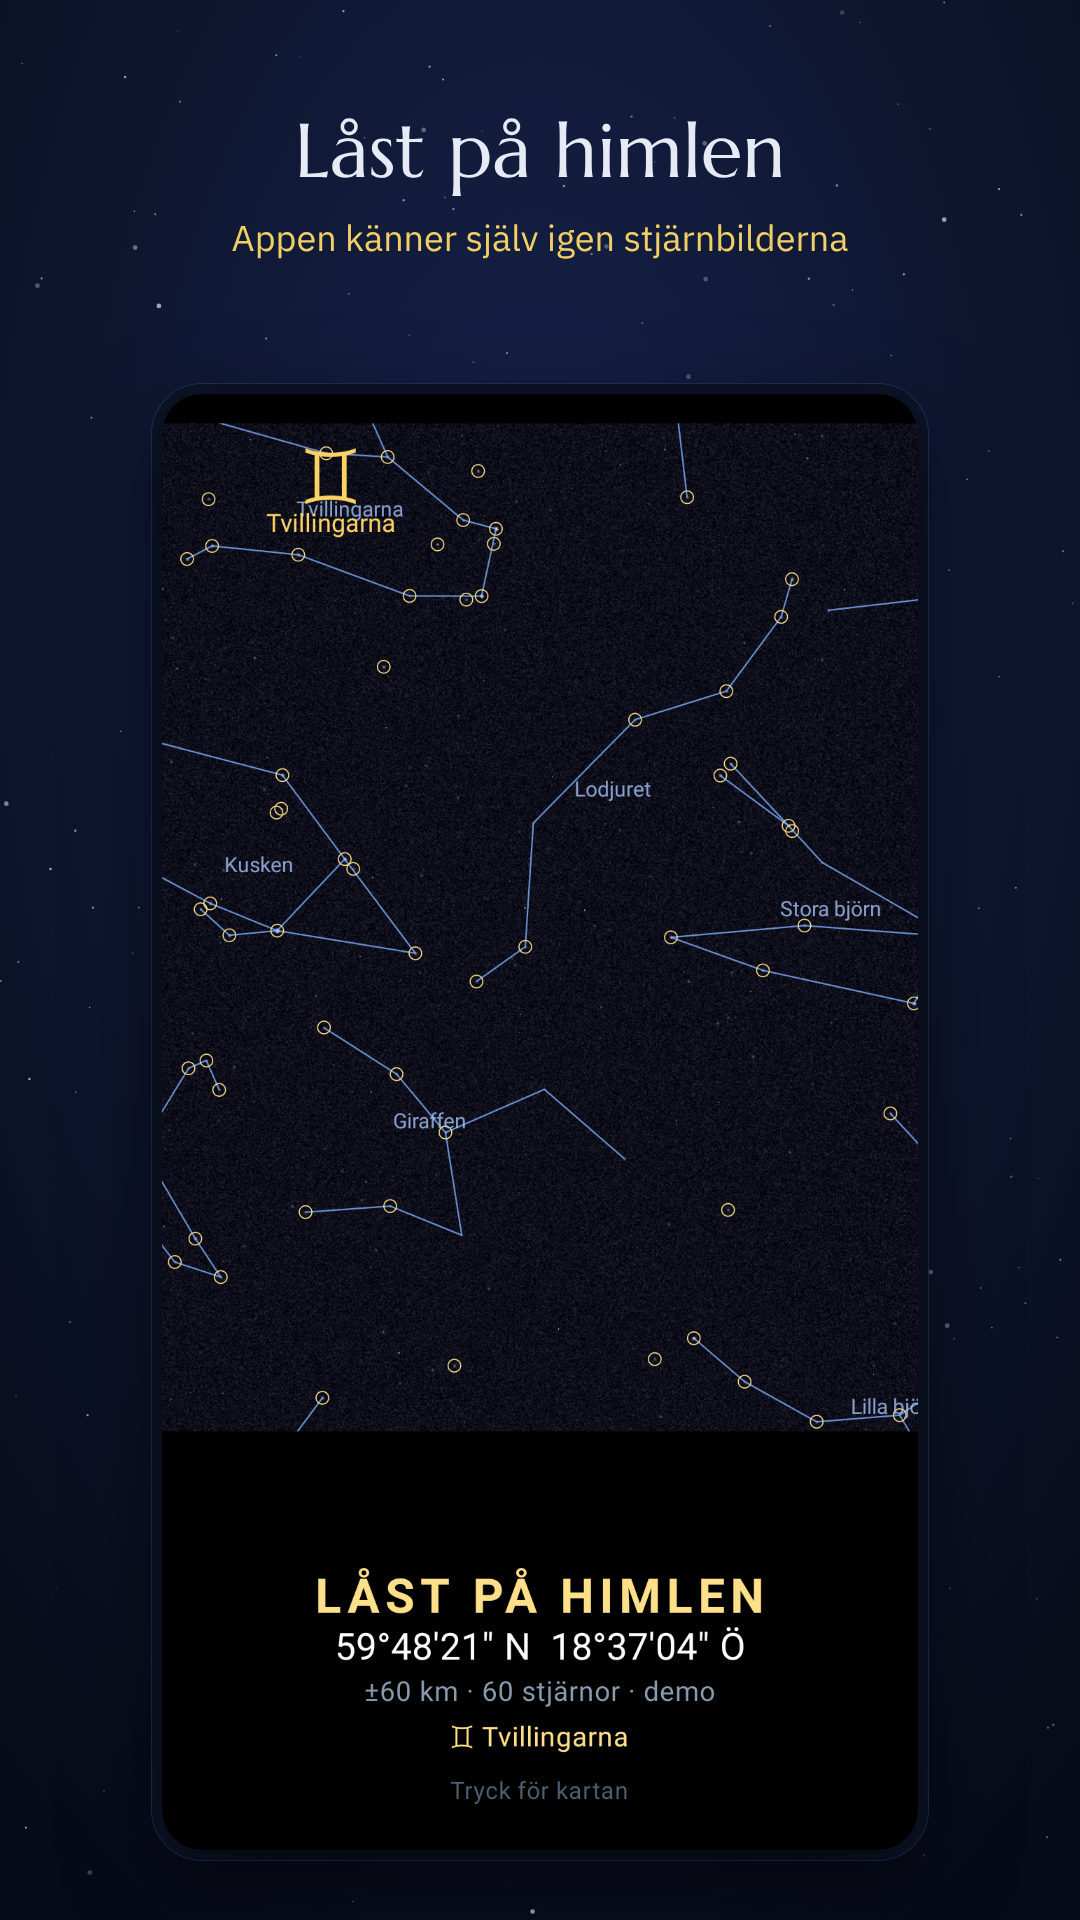
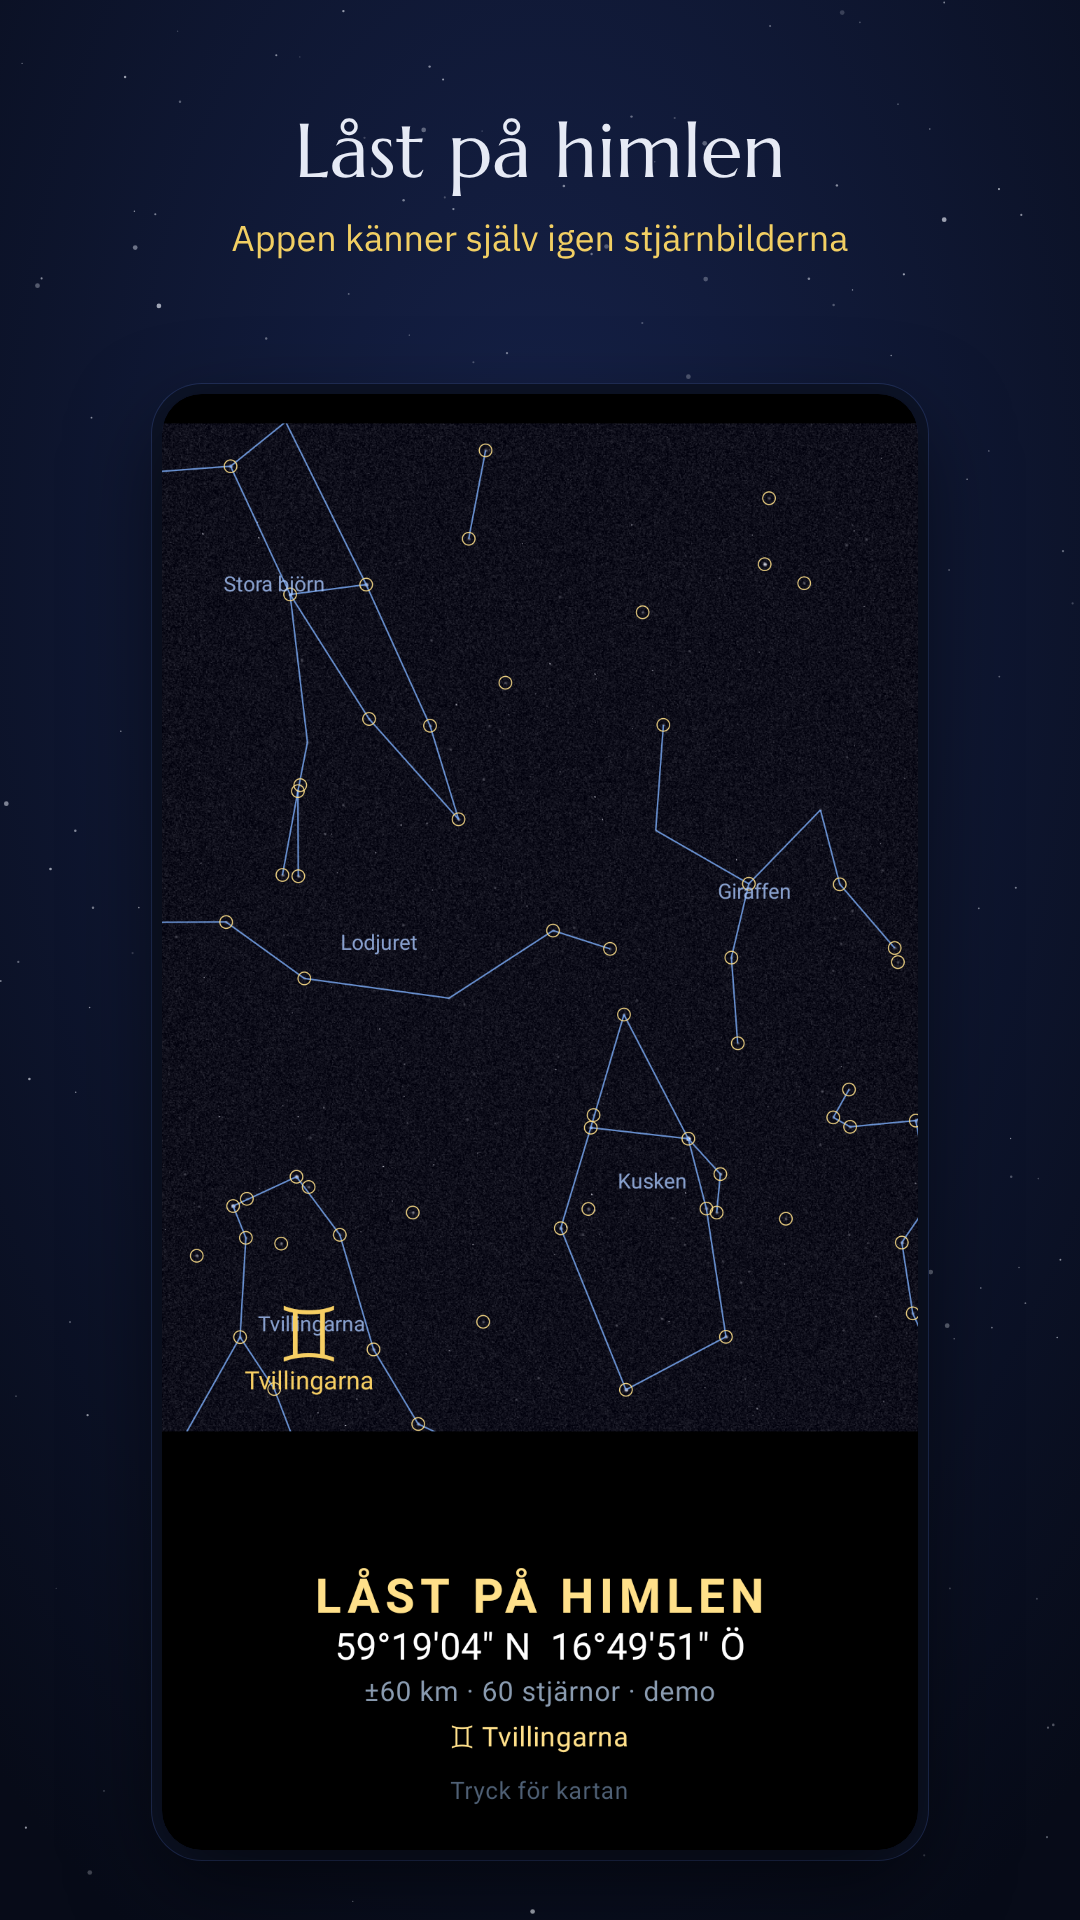
1.1.0 screenshots: Play sets (8 EN, 8 SV) and native app images on the site
Claude-Session: https://claude.ai/code/session_01G7NetsW8sqx8ohpW67qzxH

diff --git a/index.html b/index.html
@@ -7,7 +7,7 @@
 <meta name="description" content="Starways is an offline Android app that finds your position from the stars. No GPS, no signal, no internet permission.">
 <meta property="og:title" content="Starways">
 <meta property="og:description" content="Offline star navigation for Android. When all other navigation fails.">
-<meta property="og:image" content="img/lock-on-sky-540.jpg">
+<meta property="og:image" content="img/app-lock-on-540.jpg">
 <meta name="theme-color" content="#070b18">
 <link rel="icon" href="icon.svg" type="image/svg+xml">
 <link rel="stylesheet" href="fonts.css">
@@ -157,9 +157,9 @@ footer{padding-block:36px;color:var(--muted);font-size:14px}
           <a class="btn ghost" href="https://play.google.com/store/apps/details?id=se.lte.starways" target="_blank" rel="noopener">Google Play</a>
           <a class="btn ghost" href="https://claude.ai/artifact/BktgjLXFUgqfmtFtrirfJZ" target="_blank" rel="noopener"><span lang="en">Try the web demo</span><span lang="sv">Prova webbdemon</span></a>
         </div>
-        <p class="coord"><span lang="en">Demo fix:</span><span lang="sv">Demofix:</span> <b>59.332° N, 18.074° E</b> · ±4.1 km · 47 <span lang="en">stars</span><span lang="sv">stjärnor</span></p>
+        <p class="coord"><span lang="en">Demo fix:</span><span lang="sv">Demofix:</span> <b>59.306° N, 18.113° E</b> · ±7.5 km <span lang="en">after calibration</span><span lang="sv">efter kalibrering</span></p>
       </div>
-      <div class="phone"><img src="img/lock-on-sky-540.jpg" width="540" height="1099" alt="Starways locked on the sky: Ursa Major, Draco, Boötes, Ursa Minor and Corona Borealis identified, 51 stars."></div>
+      <div class="phone"><img src="img/app-lock-on-540.jpg" width="540" height="1040" alt="Starways locked on the sky: constellations identified, 60 stars, Gemini in view, position shown with ±60 km before calibration."></div>
     </div>
   </div>
 </header>
@@ -226,8 +226,8 @@ footer{padding-block:36px;color:var(--muted);font-size:14px}
         <li><span lang="en"><b>Advanced mode.</b> Adds Compare GPS on the map and the GPS guard, so you can check a star fix against satellite navigation and spot jamming or spoofing. GPS comparisons also calibrate your step length.</span><span lang="sv"><b>Avancerat läge.</b> Lägger till Jämför GPS på kartan och GPS-vakten, så att du kan kontrollera stjärnfixen mot satellitnavigeringen och upptäcka störning eller förfalskning. Jämförelserna kalibrerar också din steglängd.</span></li>
         <li><span lang="en"><b>Boat mode</b> (in Advanced mode). A 2-minute measurement with the main camera that copes with a rolling deck. It follows the stars frame by frame and warns you if the boat turns. At sea, Track uses compass course and the speed you enter in knots instead of steps. Horizon mode takes the vertical from the sea horizon instead.</span><span lang="sv"><b>Båtläge</b> (i Avancerat läge). En mätning på 2 minuter med huvudkameran som klarar sjögång. Den följer stjärnorna bild för bild och varnar om båten girar. Till sjöss använder Spåra kompasskursen och farten du anger i knop i stället för steg. Horisontläget tar lodlinjen från havshorisonten i stället.</span></li>
       </ul>
-      <figure><img src="img/settings-en-540.jpg" width="540" height="1080" alt="Starways settings: night mode, voice instructions on, step length, star sync reminder, Advanced mode and Boat mode switched on" loading="lazy"><figcaption><span lang="en">Settings with Advanced mode and Boat mode on</span><span lang="sv">Inställningar med Avancerat läge och Båtläge påslagna</span></figcaption></figure>
-      <figure><img src="img/boat-mode-en-540.jpg" width="540" height="1080" alt="Boat mode measurement in night mode: 0:29 left, 60 star frames, locked on the stars, hold your course, yaw 0.0 degrees" loading="lazy"><figcaption><span lang="en">Boat mode: locked on the stars, hold your course</span><span lang="sv">Båtläge: låst på stjärnorna, håll kursen</span></figcaption></figure>
+      <figure><img src="img/settings-en-540.jpg" width="540" height="1040" alt="Starways settings in Advanced mode: boat mode with speed, horizon mode with eye height above the sea, and GPS guard switched on" loading="lazy"><figcaption><span lang="en">Advanced mode: boat mode, horizon mode and GPS guard</span><span lang="sv">Avancerat läge: båtläge, horisontläge och GPS-vakt</span></figcaption></figure>
+      <figure><img src="img/boat-mode-en-540.jpg" width="540" height="1040" alt="Boat mode measurement in night mode: 1:10 left, star frames counting, locked on the stars, hold your course" loading="lazy"><figcaption><span lang="en">Boat mode: locked on the stars, hold your course</span><span lang="sv">Båtläge: låst på stjärnorna, håll kursen</span></figcaption></figure>
     </div>
     <p class="note"><span lang="en">Boat mode is experimental. It has been tested in simulation, not yet on a real boat. Hold a steady course and speed while it measures, and calibrate the sensors in harbour or on land first.</span><span lang="sv">Båtläget är experimentellt. Det är testat i simulering men ännu inte på en riktig båt. Håll stadig kurs och fart medan det mäter, och kalibrera sensorerna i hamn eller på land först.</span></p>
   </div>
@@ -284,10 +284,10 @@ footer{padding-block:36px;color:var(--muted);font-size:14px}
       </div>
     </div>
     <div class="shots">
-      <figure><img src="img/lock-on-sky-540.jpg" width="540" height="1099" alt="Lock on sky with constellation lines" loading="lazy"><figcaption>Lock on sky: 51 stars identified in 2.0 s</figcaption></figure>
-      <figure><img src="img/map-calibrated-540.jpg" width="540" height="1099" alt="Offline map with blue dot at Stockholm, ±4.1 km after calibration, red dots are the four uncalibrated fixes" loading="lazy"><figcaption>After calibration: ±4.1 km</figcaption></figure>
-      <figure><img src="img/map-uncalibrated-540.jpg" width="540" height="1099" alt="Offline map with larger uncertainty circle before calibration" loading="lazy"><figcaption>Before calibration: ±56 km</figcaption></figure>
-      <figure><img src="img/switch-camera-540.jpg" width="540" height="1099" alt="Prompt to switch to the main camera when the selfie camera sees too few stars" loading="lazy"><figcaption>Too few stars: switch camera</figcaption></figure>
+      <figure><img src="img/app-lock-on-540.jpg" width="540" height="1040" alt="Lock on sky: constellation lines drawn, Gemini in view" loading="lazy"><figcaption>Lock on sky: the constellations are recognised</figcaption></figure>
+      <figure><img src="img/app-map-540.jpg" width="540" height="1040" alt="Offline map with blue dot near Stockholm, ±7.5 km after calibration, and a saved waypoint" loading="lazy"><figcaption>After calibration: ±7.5 km (demo)</figcaption></figure>
+      <figure><img src="img/app-waypoints-540.jpg" width="540" height="1040" alt="Waypoints and export: bearing and distance to a saved waypoint, GPX and CSV export" loading="lazy"><figcaption>Waypoints with bearing and distance, GPX and CSV export</figcaption></figure>
+      <figure><img src="img/app-night-540.jpg" width="540" height="1040" alt="Night mode: the map and Track in red only" loading="lazy"><figcaption>Night mode: red light only</figcaption></figure>
     </div>
   </div>
 </section>
